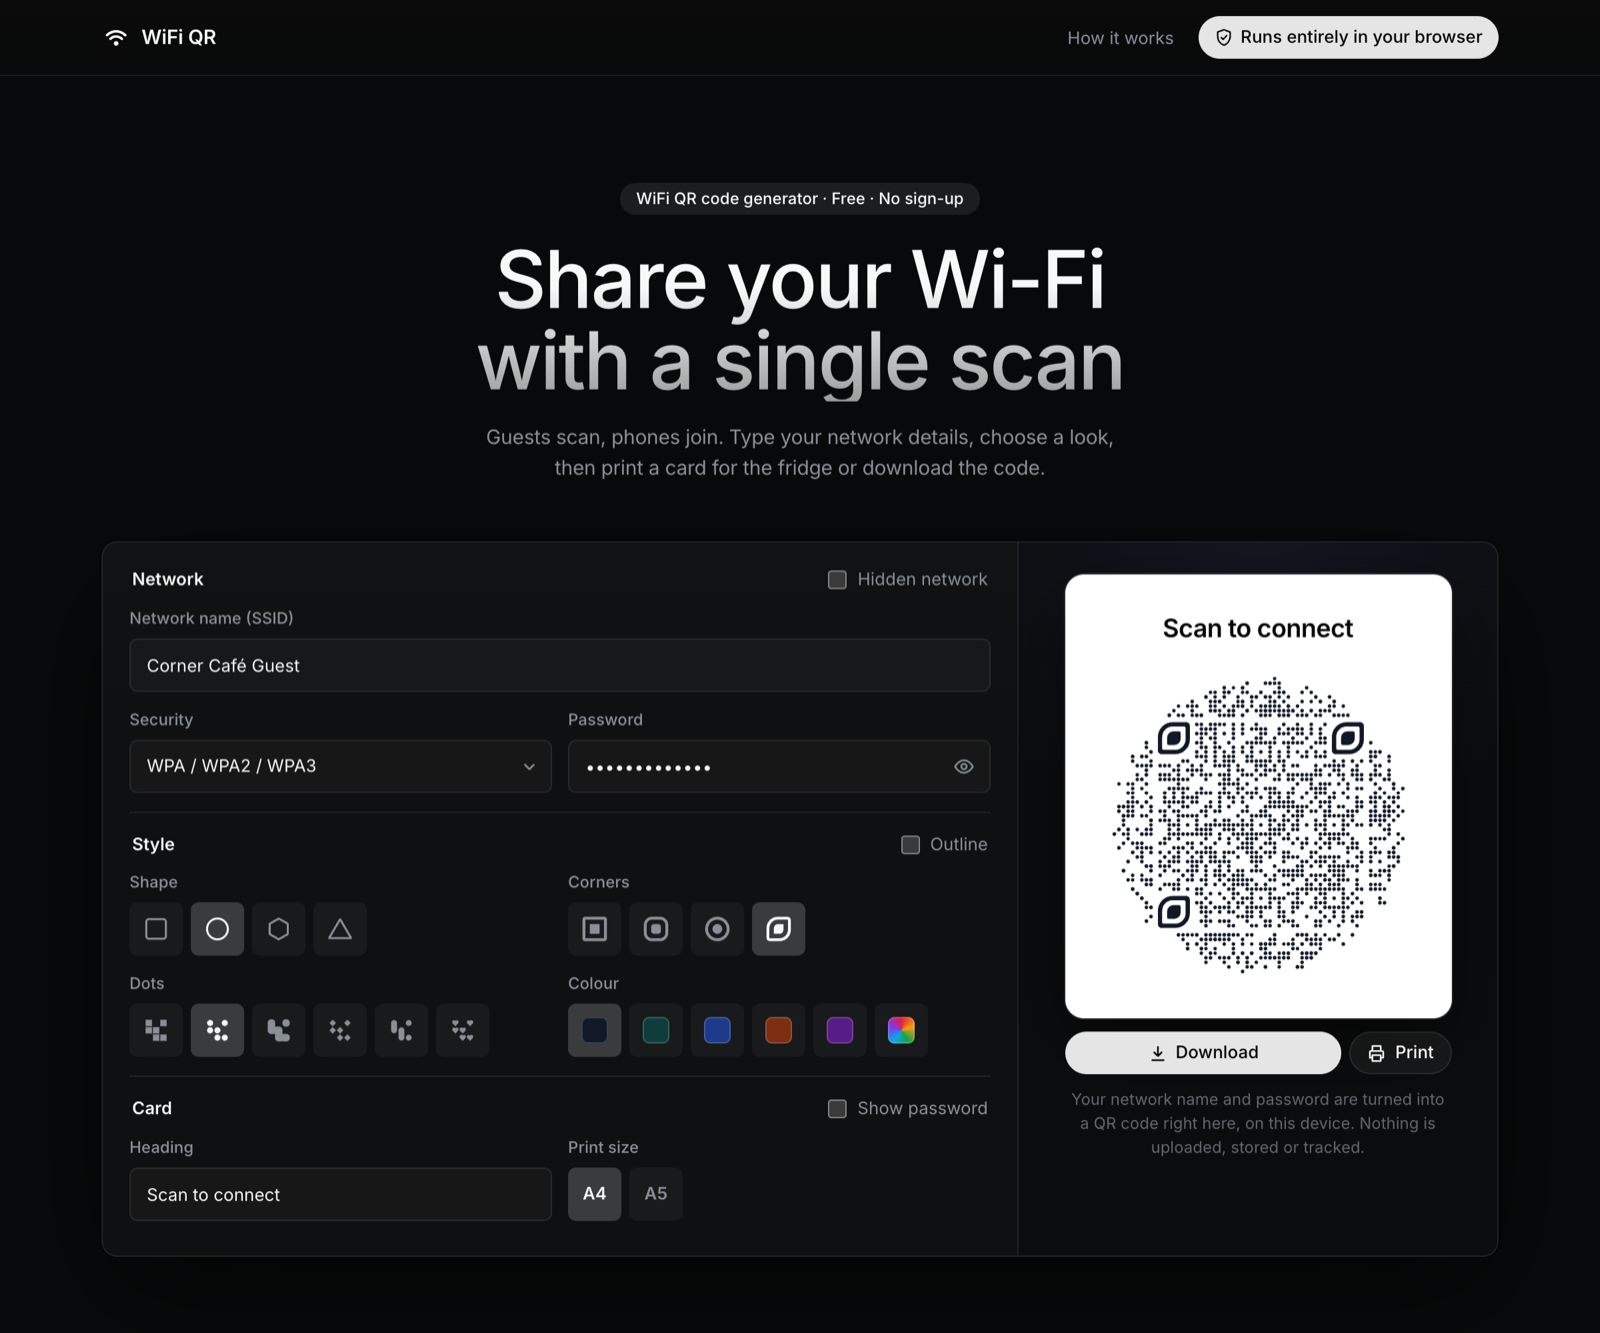
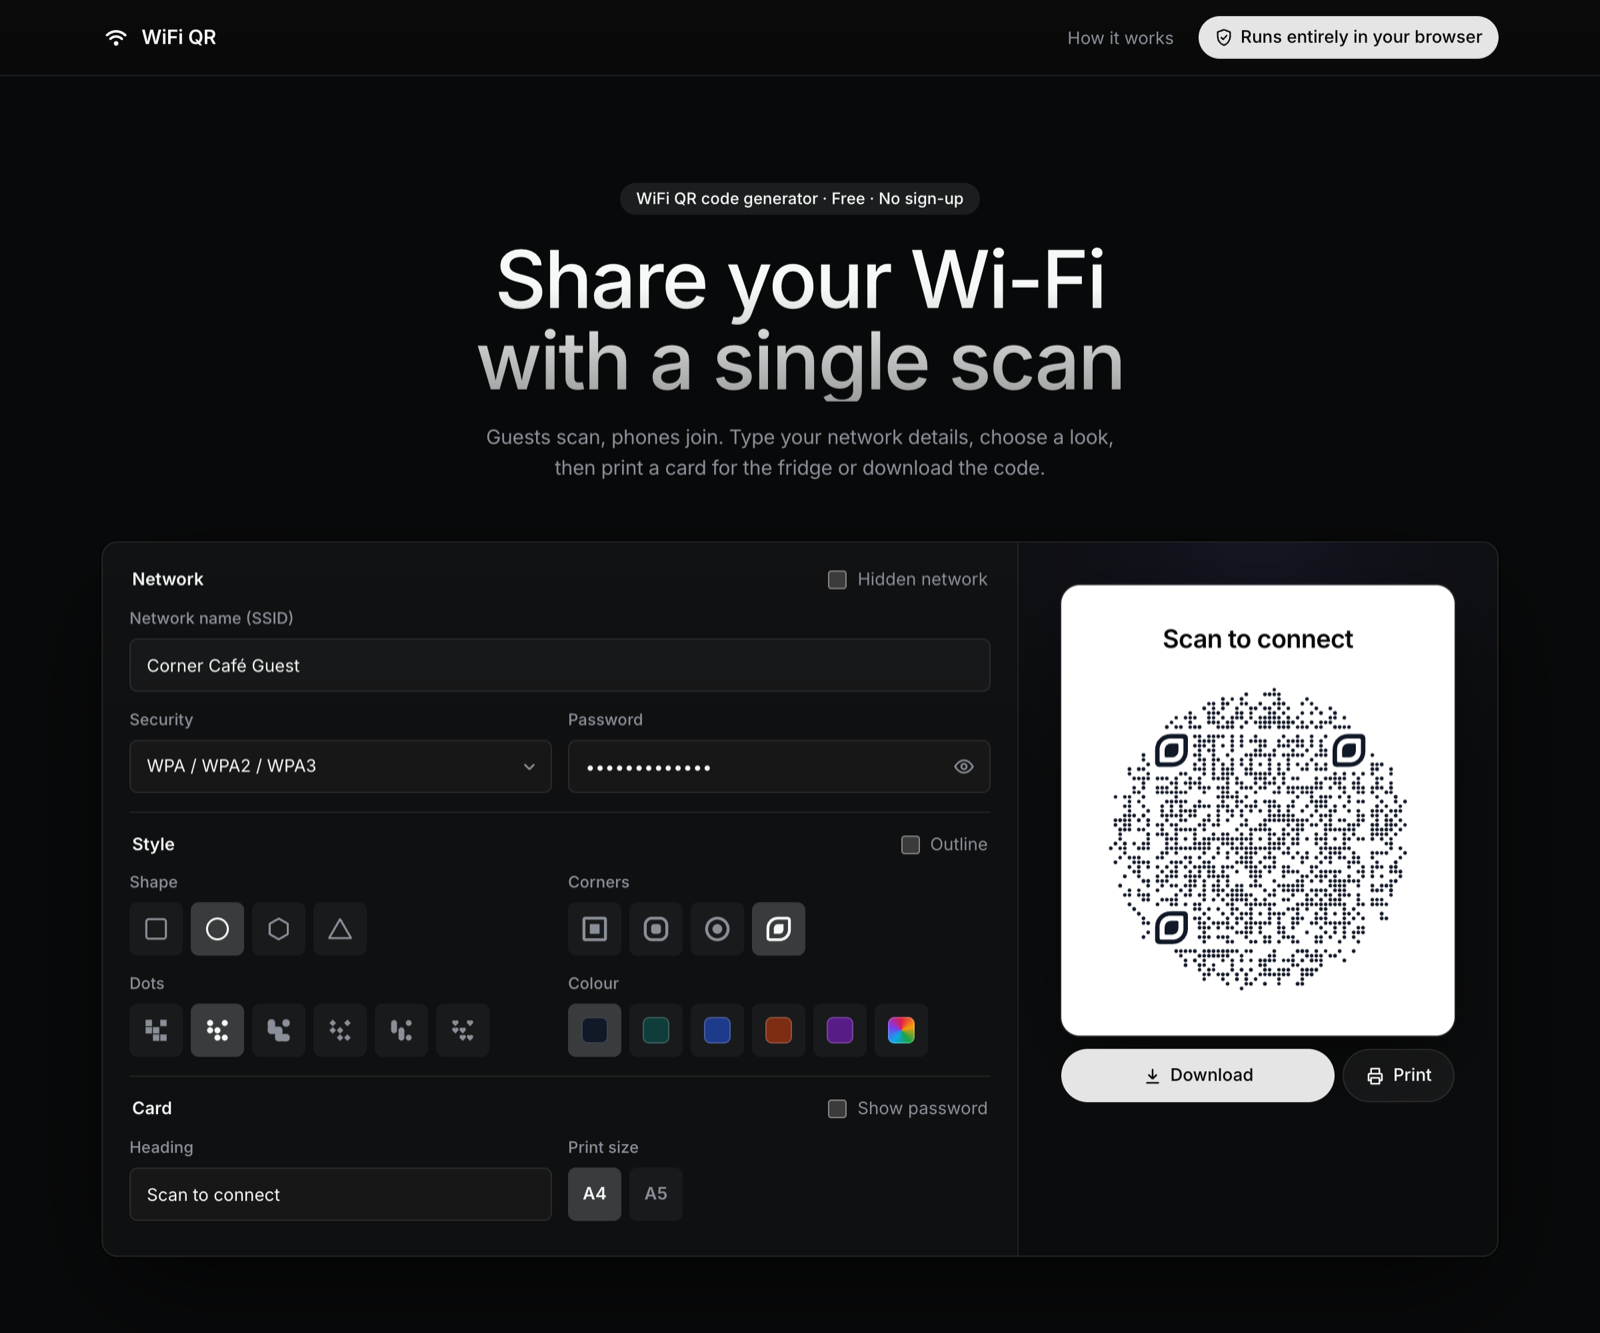
Add files via upload

Changed region(s): [[0.6562, 0.4306, 0.9062, 0.8612]]

diff --git a/index.html b/index.html
@@ -189,9 +189,6 @@
           </button>
         </div>
         <p class="status" id="status" role="status"></p>
-        <p class="privacy">
-          Your network name and password are turned into a QR code right here, on this device. Nothing is uploaded, stored or tracked.
-        </p>
       </section>
     </div>
 
@@ -225,7 +222,7 @@
 
   <footer class="site-footer">
     <div class="wrap">
-      <p>Built with qr-code-shapes · Need logos, colors or custom designs? <a href="https://koloqr.com">KoloQR</a></p>
+      <p>Built with qr-code-shapes · Need logos, colors or custom designs? <a class="footer-brand" href="https://koloqr.com"><svg class="footer-logo" viewBox="0 0 123 24" fill="none" aria-hidden="true" focusable="false"><path d="M6.70665 16.8C7.00174 16.8 7.24318 17.04 7.24318 17.3333V23.4667C7.24318 23.76 7.00174 24 6.70665 24H0.536532C0.241439 24 0 23.76 0 23.4667V17.3333C0 17.04 0.241439 16.8 0.536532 16.8H6.70665Z" fill="currentColor"></path><path fill-rule="evenodd" clip-rule="evenodd" d="M96.1467 2.5599C97.5147 2.55991 98.7755 2.79999 99.9558 3.27995C101.109 3.75994 102.129 4.42663 103.014 5.27995C103.873 6.13325 104.57 7.14662 105.053 8.29323C105.536 9.43986 105.777 10.6933 105.777 12.0266C105.777 13.3599 105.536 14.5867 105.053 15.7333C104.758 16.4 104.409 17.0134 104.007 17.5734L106.394 19.8932C106.609 20.0799 106.609 20.4268 106.394 20.6401L104.758 22.2401C104.543 22.4534 104.221 22.4534 104.007 22.2401L101.646 19.8932C101.136 20.2132 100.6 20.5066 100.01 20.7466C98.8292 21.2266 97.5684 21.4667 96.2271 21.4667C94.8321 21.4667 93.5443 21.2266 92.3639 20.7466C91.1836 20.2666 90.1642 19.5734 89.2789 18.7201C88.3936 17.8667 87.6961 16.8534 87.2132 15.7068C86.7035 14.5601 86.4621 13.3333 86.4621 12C86.4621 10.64 86.7036 9.41333 87.1865 8.26667C87.6693 7.12001 88.3399 6.13327 89.2252 5.27995C90.0836 4.42661 91.1032 3.75995 92.2835 3.27995C93.4639 2.79995 94.7517 2.5599 96.1467 2.5599ZM96.1197 6.29323C94.993 6.29324 94.0272 6.5333 93.2225 7.01328C92.3909 7.49327 91.7739 8.15999 91.3179 9.01328C90.8618 9.86661 90.6472 10.8533 90.6472 12C90.6472 12.8533 90.7813 13.6266 91.0496 14.3466C91.291 15.0399 91.6665 15.6532 92.1494 16.1599C92.6323 16.6666 93.1957 17.0667 93.8664 17.3333C94.537 17.6 95.2881 17.7333 96.1197 17.7333C97.1123 17.7333 97.9977 17.5201 98.8293 17.1201L96.1467 14.4799C95.932 14.2666 95.932 13.9467 96.1467 13.7333L97.783 12.1068C97.9976 11.8934 98.3195 11.8934 98.5341 12.1068L101.083 14.6401C101.431 13.8668 101.592 12.9867 101.592 12C101.592 11.1467 101.458 10.3733 101.19 9.67995C100.922 8.98663 100.546 8.37333 100.063 7.86667C99.5535 7.36 98.9902 6.9599 98.3195 6.69323C97.6489 6.42657 96.9245 6.29323 96.1197 6.29323Z" fill="currentColor"></path><path d="M21.193 16.8C21.4881 16.8 21.7296 17.04 21.7296 17.3333V21.0667C21.7296 21.36 21.4881 21.6 21.193 21.6H17.4373C17.1422 21.6 16.9008 21.36 16.9008 21.0667V17.3333C16.9008 17.04 17.1422 16.8 17.4373 16.8H21.193Z" fill="currentColor"></path><path fill-rule="evenodd" clip-rule="evenodd" d="M56.3091 8.29323C57.5968 8.29325 58.7771 8.58664 59.8233 9.14662C60.8696 9.70662 61.7011 10.5068 62.3182 11.4401C62.9351 12.4534 63.2304 13.5468 63.2304 14.7734C63.2303 16.0534 62.9351 17.1733 62.3182 18.1599C61.728 19.1466 60.8963 19.9467 59.8501 20.5333C58.8039 21.12 57.6236 21.4133 56.3091 21.4133C54.9947 21.4133 53.8142 21.12 52.768 20.5333C51.7217 19.9467 50.9169 19.1732 50.2999 18.1599C49.6829 17.1732 49.3877 16.0533 49.3877 14.8C49.3877 13.5733 49.683 12.4799 50.2732 11.4932C50.8902 10.5066 51.6948 9.73325 52.741 9.14662C53.7872 8.58662 54.9678 8.29323 56.3091 8.29323ZM56.3091 11.9201C55.7727 11.9201 55.2629 12.0533 54.8337 12.2932C54.4045 12.5332 54.0555 12.88 53.8141 13.3333C53.5727 13.7866 53.4387 14.2666 53.4386 14.8266C53.4386 15.4132 53.5726 15.9467 53.8141 16.4C54.0555 16.8533 54.4045 17.2001 54.8337 17.4401C55.2629 17.6801 55.7458 17.8133 56.3091 17.8133C56.8456 17.8133 57.3554 17.6801 57.7846 17.4401C58.2138 17.2001 58.5356 16.8533 58.777 16.4C59.0184 15.9467 59.1258 15.4134 59.1527 14.8534C59.1527 14.2667 59.0184 13.76 58.777 13.3333C58.5356 12.88 58.2138 12.5332 57.7846 12.2932C57.3554 12.0532 56.8725 11.9201 56.3091 11.9201Z" fill="currentColor"></path><path fill-rule="evenodd" clip-rule="evenodd" d="M78.1191 8.29323C79.4068 8.29324 80.5871 8.58664 81.6333 9.14662C82.6795 9.70662 83.5111 10.5068 84.1281 11.4401C84.7451 12.4534 85.0403 13.5468 85.0403 14.7734C85.0403 16.0534 84.7451 17.1733 84.1281 18.1599C83.538 19.1465 82.7065 19.9467 81.6603 20.5333C80.6141 21.12 79.4336 21.4133 78.1191 21.4133C76.8046 21.4133 75.6242 21.12 74.578 20.5333C73.5317 19.9467 72.7269 19.1732 72.1099 18.1599C71.4929 17.1733 71.1979 16.0533 71.1979 14.8C71.1979 13.5733 71.493 12.4799 72.0831 11.4932C72.7001 10.5066 73.505 9.73326 74.5512 9.14662C75.5975 8.58665 76.7778 8.29323 78.1191 8.29323ZM78.1191 11.9201C77.5826 11.9201 77.0729 12.0533 76.6437 12.2932C76.2145 12.5332 75.8657 12.88 75.6243 13.3333C75.3829 13.7866 75.2486 14.2666 75.2486 14.8266C75.2486 15.4132 75.3829 15.9467 75.6243 16.4C75.8657 16.8533 76.2144 17.2001 76.6437 17.4401C77.0729 17.6801 77.5558 17.8133 78.1191 17.8133C78.6556 17.8133 79.1654 17.6801 79.5946 17.4401C80.0238 17.2001 80.3458 16.8533 80.5872 16.4C80.8286 15.9467 80.9358 15.4134 80.9626 14.8534C80.9626 14.2667 80.8287 13.76 80.5872 13.3333C80.3458 12.88 80.0238 12.5332 79.5946 12.2932C79.1654 12.0532 78.6825 11.9201 78.1191 11.9201Z" fill="currentColor"></path><path d="M37.3964 2.90677C37.6914 2.90683 37.9329 3.14681 37.9329 3.4401V11.1201L44.5322 3.09323C44.6127 2.9866 44.7736 2.90677 44.9346 2.90677H48.5829C49.0389 2.90677 49.2804 3.44005 48.9853 3.78672L42.6006 11.2534C42.4397 11.4401 42.4398 11.7334 42.6276 11.9201L49.361 20.2932C49.6292 20.6665 49.3878 21.1734 48.9318 21.1734H45.1761C45.0151 21.1734 44.854 21.0932 44.7467 20.9599L37.9059 12.1599V20.6401C37.9059 20.9334 37.6645 21.1734 37.3694 21.1734H34.3381C34.043 21.1734 33.8016 20.9334 33.8015 20.6401V3.4401C33.8015 3.14677 34.043 2.90677 34.3381 2.90677H37.3964Z" fill="currentColor"></path><path fill-rule="evenodd" clip-rule="evenodd" d="M116.186 2.90677C117.42 2.90677 118.493 3.14669 119.405 3.6C120.317 4.05331 121.042 4.69329 121.551 5.49323C122.061 6.31989 122.329 7.22667 122.329 8.26667C122.329 9.36 122.061 10.3201 121.551 11.1201C121.042 11.92 120.317 12.5334 119.378 12.9867C118.869 13.2267 118.305 13.4134 117.688 13.5201L122.893 20.2932C123.161 20.6399 122.893 21.1468 122.463 21.1734H119.083C118.842 21.1734 118.6 21.0667 118.439 20.8534L113.208 13.6799H112.779V20.6401C112.779 20.9334 112.538 21.1734 112.243 21.1734H109.211C108.916 21.1734 108.675 20.9334 108.674 20.6401V3.4401C108.674 3.1468 108.916 2.90682 109.211 2.90677H116.186ZM112.779 10.5867H115.703C116.508 10.5867 117.125 10.4001 117.581 9.97344C118.037 9.54678 118.252 9.01337 118.252 8.32005C118.252 7.68005 118.01 7.1199 117.581 6.69323C117.152 6.26663 116.535 6.0534 115.73 6.05339H112.779V10.5867Z" fill="currentColor"></path><path d="M68.6224 2.37344C68.9175 2.37344 69.1589 2.61344 69.1589 2.90677V20.6133C69.1589 20.9066 68.9175 21.1466 68.6224 21.1466H65.6985C65.4034 21.1466 65.1619 20.9066 65.1619 20.6133V2.90677C65.1619 2.61344 65.4034 2.37344 65.6985 2.37344H68.6224Z" fill="currentColor"></path><path d="M11.5354 12C11.8305 12 12.072 12.24 12.072 12.5333V16.2667C12.072 16.56 11.8305 16.8 11.5354 16.8H7.77972C7.48462 16.8 7.24318 16.56 7.24318 16.2667V12.5333C7.24318 12.24 7.48462 12 7.77972 12H11.5354Z" fill="currentColor"></path><path d="M16.3642 7.2C16.6593 7.2 16.9008 7.44 16.9008 7.73333V11.4667C16.9008 11.76 16.6593 12 16.3642 12H12.6085C12.3134 12 12.072 11.76 12.072 11.4667V7.73333C12.072 7.44 12.3134 7.2 12.6085 7.2H16.3642Z" fill="currentColor"></path><path d="M6.70665 0C7.00174 0 7.24318 0.24 7.24318 0.533333V6.66667C7.24318 6.96 7.00174 7.2 6.70665 7.2H0.536532C0.241439 7.2 0 6.96 0 6.66667V0.533333C0 0.24 0.241439 0 0.536532 0H6.70665Z" fill="currentColor"></path><path d="M23.6074 0C23.9025 0 24.1439 0.24 24.1439 0.533333V6.66667C24.1439 6.96 23.9025 7.2 23.6074 7.2H17.4373C17.1422 7.2 16.9008 6.96 16.9008 6.66667V0.533333C16.9008 0.24 17.1422 0 17.4373 0H23.6074Z" fill="currentColor"></path></svg><span class="sr-only">KoloQR</span></a></p>
     </div>
   </footer>
 </body>

diff --git a/assets/style.css b/assets/style.css
@@ -384,15 +384,15 @@ select option { background: var(--surface-2); color: var(--ink); }
   display: flex;
   flex-direction: column;
   gap: 10px;
-  padding: 16px;
+  padding: 32px;
   border-left: 1px solid var(--line);
   background: radial-gradient(120% 70% at 50% 0%, rgb(94 106 210 / .1), transparent 60%), #0b0c0d;
 }
 
-.preview { display: grid; place-items: center; padding: 8px 0 0; }
+.preview { display: grid; place-items: center; }
 
 /* Buttons and notes line up with the card's edges. */
-.preview-col > :not(.preview) { width: 100%; max-width: 290px; margin-inline: auto; }
+.preview-col > :not(.preview) { width: 100%; max-width: 296px; margin-inline: auto; }
 
 /* The card is a physical object: it stays paper-white. */
 .card {
@@ -400,7 +400,7 @@ select option { background: var(--surface-2); color: var(--ink); }
   --card-muted: #6b6f76;
   --card-accent: #08090a;
   width: 100%;
-  max-width: 290px;
+  max-width: 296px;
   /* The title's line box adds ~3px above the letters; with the code's own
      quiet zone this makes the visible gap top, sides and bottom the same. */
   padding: 30px 20px 20px;
@@ -531,8 +531,8 @@ select option { background: var(--surface-2); color: var(--ink); }
   align-items: center;
   justify-content: center;
   gap: 6px;
-  height: 32px;
-  padding: 0 12px;
+  height: 40px;
+  padding: 0 16px;
   border: 1px solid var(--line);
   border-radius: 999px;
   background: rgb(255 255 255 / .05);
@@ -562,12 +562,6 @@ select option { background: var(--surface-2); color: var(--ink); }
 .status.error { color: var(--warn); }
 .status:empty { display: none; }
 
-.privacy {
-  margin: 0;
-  font-size: 12px;
-  text-align: center;
-  color: var(--faint);
-}
 
 /* Info */
 
@@ -635,10 +629,21 @@ select option { background: var(--surface-2); color: var(--ink); }
   margin-top: auto;
   padding: 16px 0 20px;
   border-top: 1px solid var(--line);
-  font-size: 13px;
-  color: var(--faint);
+  font-size: 14px;
+  color: var(--muted);
 }
-.site-footer p { margin: 0; text-align: center; }
+.site-footer p {
+  margin: 0;
+  display: flex;
+  flex-wrap: wrap;
+  align-items: center;
+  justify-content: center;
+  gap: 4px 8px;
+  text-align: center;
+}
+.site-footer a.footer-brand { display: inline-flex; align-items: center; padding: 4px 2px; color: var(--ink); }
+.site-footer a.footer-brand:hover { opacity: .8; }
+.footer-logo { width: 62px; height: 12px; display: block; }
 .site-footer a { color: var(--muted); }
 .site-footer a:hover { color: var(--ink); }
 
@@ -655,14 +660,13 @@ select option { background: var(--surface-2); color: var(--ink); }
 }
 
 @media (max-width: 560px) {
+  .card, .preview-col > :not(.preview) { max-width: 260px; }
   .header-nav a { display: none; }
-  .badge { font-size: 0; gap: 0; width: 32px; padding: 0; justify-content: center; }
-  .badge svg { width: 15px; height: 15px; }
+  .badge { font-size: 12px; padding: 0 10px; }
 }
 
 @media (max-width: 420px) {
   .controls { padding: 2px 14px 10px; }
-  .preview-col { padding: 14px; }
   .field-row.stack-sm { grid-template-columns: minmax(0, 1fr); gap: 0; }
   /* 16px keeps iOS Safari from zooming into focused fields. */
   input[type="text"], input[type="password"], select { font-size: 16px; }
@@ -674,7 +678,7 @@ select option { background: var(--surface-2); color: var(--ink); }
 @media print {
   :root { color-scheme: light; }
   body { background: #fff; display: block; min-height: 0; }
-  .site-header, .intro, .controls, .actions, .status, .privacy, .info, .site-footer { display: none !important; }
+  .site-header, .intro, .controls, .actions, .status, .how, .site-footer { display: none !important; }
   .wrap { max-width: none; padding: 0; }
   .app { display: block; border: 0; box-shadow: none; background: none; }
   .preview-col { display: block; padding: 0; border: 0; background: none; }

diff --git a/assets/app.js b/assets/app.js
@@ -116,7 +116,7 @@ function luminance(hex) {
 
 function passwordWarning({ security, password }) {
   if (security === 'nopass') return '';
-  if (!password) return 'Leave empty only if the network really has no password.';
+  if (!password) return '';
   if (security === 'WPA' && (password.length < 8 || password.length > 63)) {
     return 'WPA passwords are usually 8–63 characters – double-check it.';
   }
